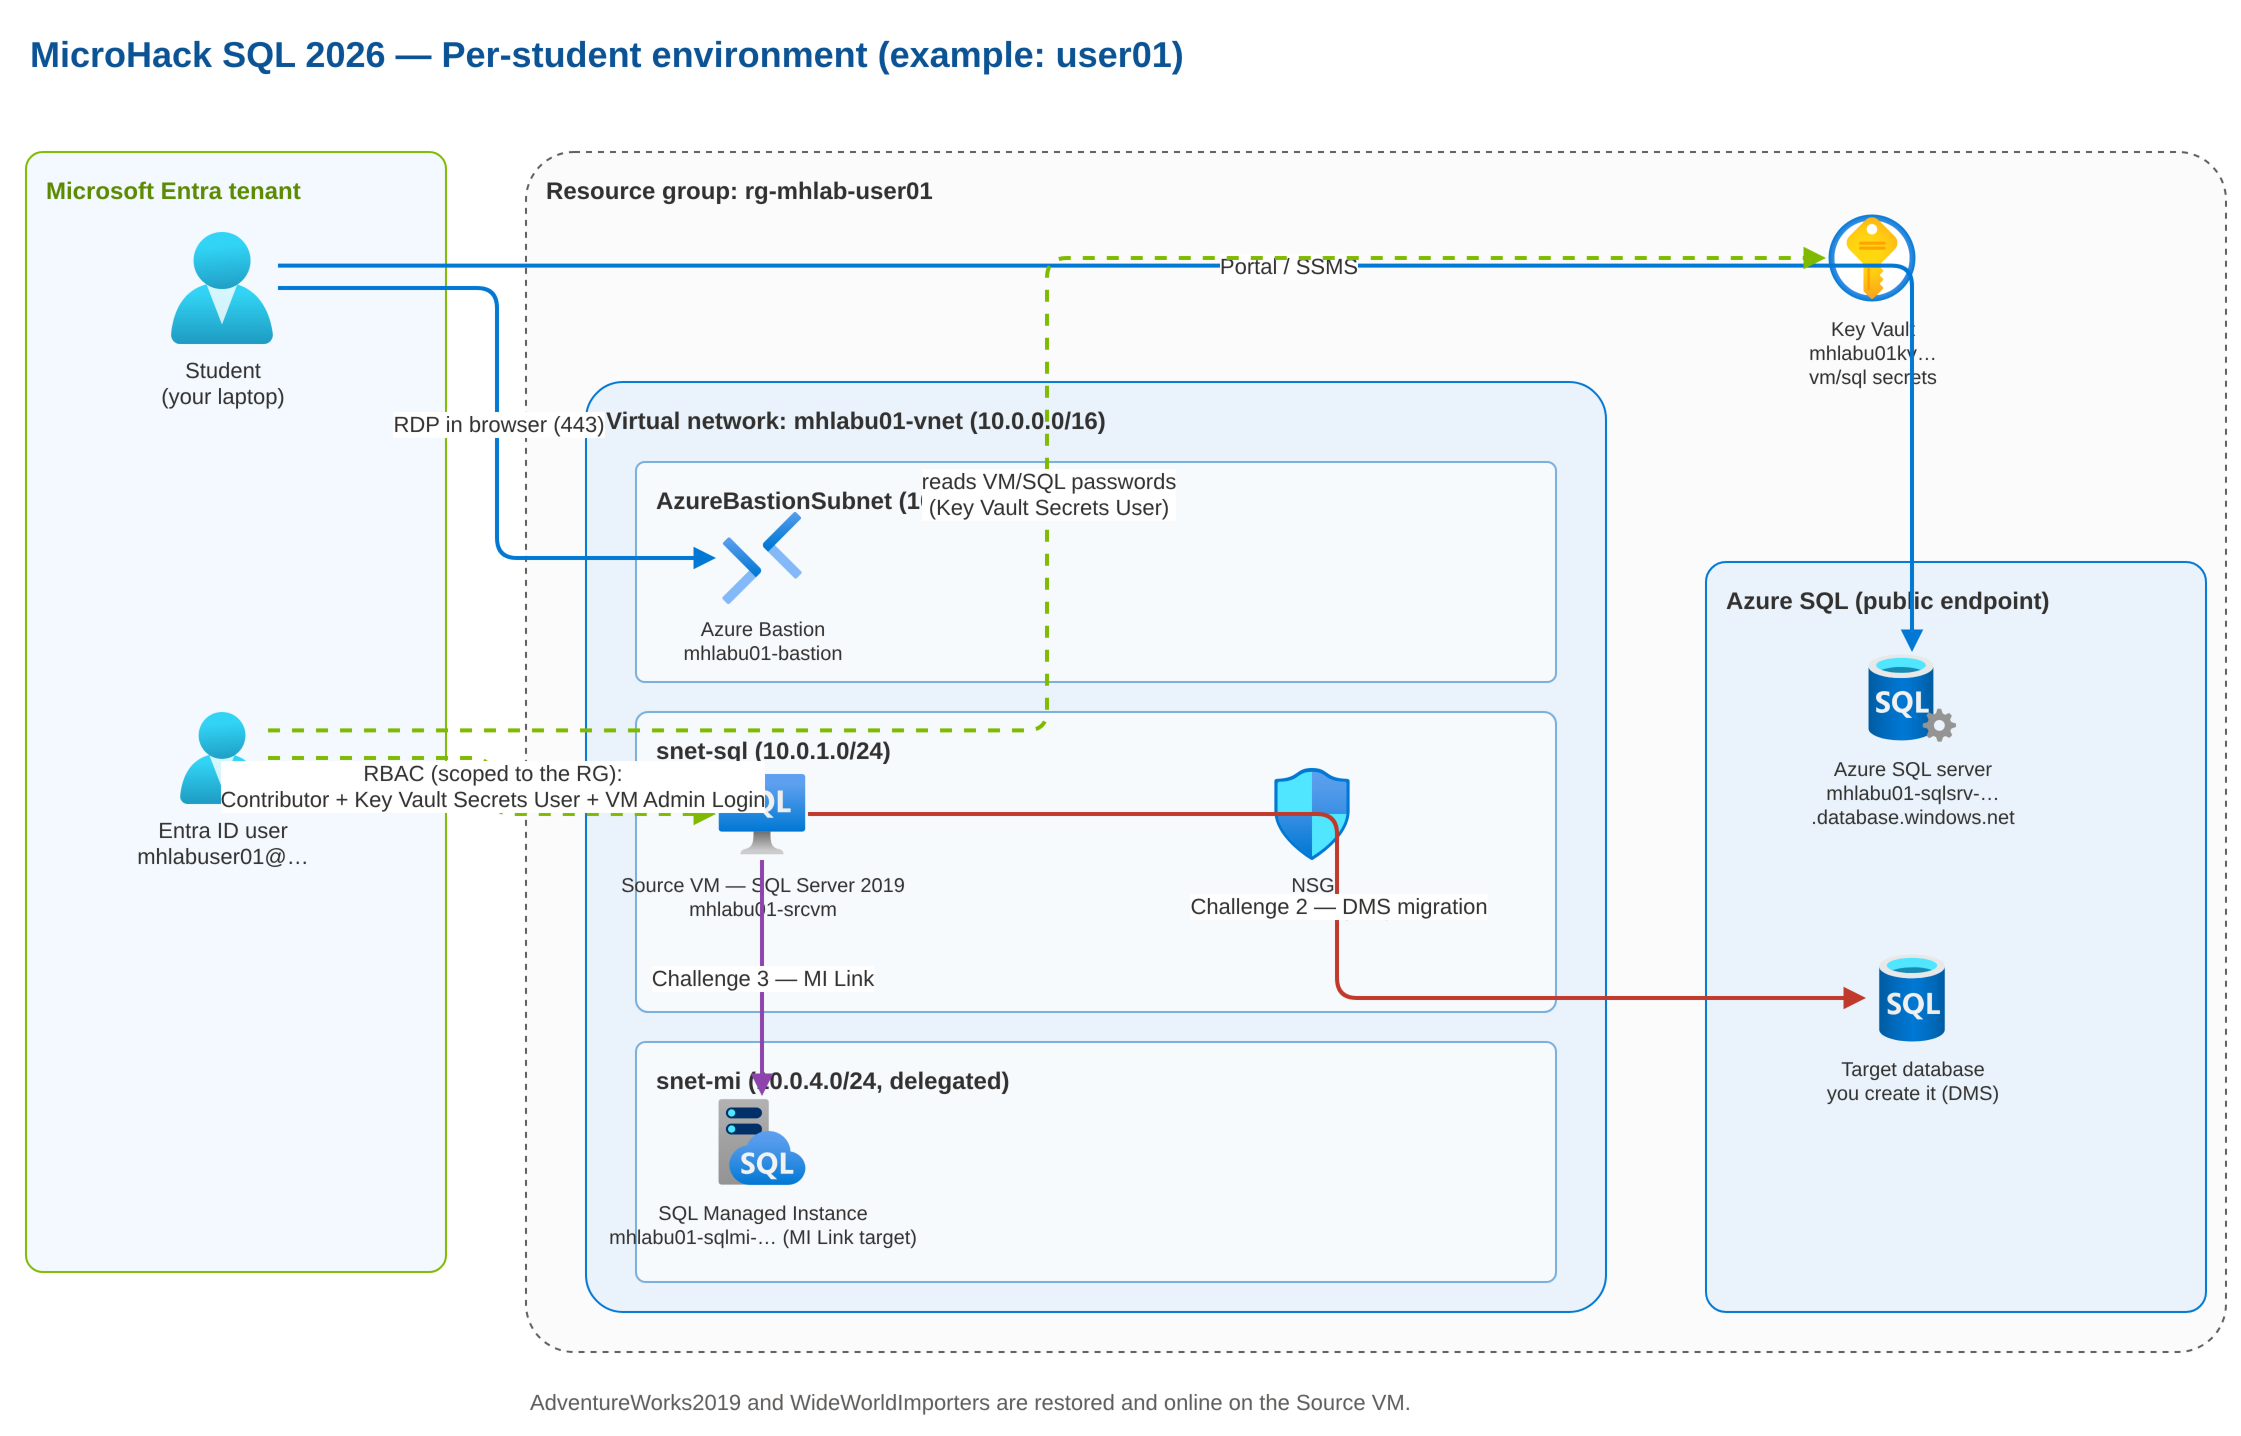
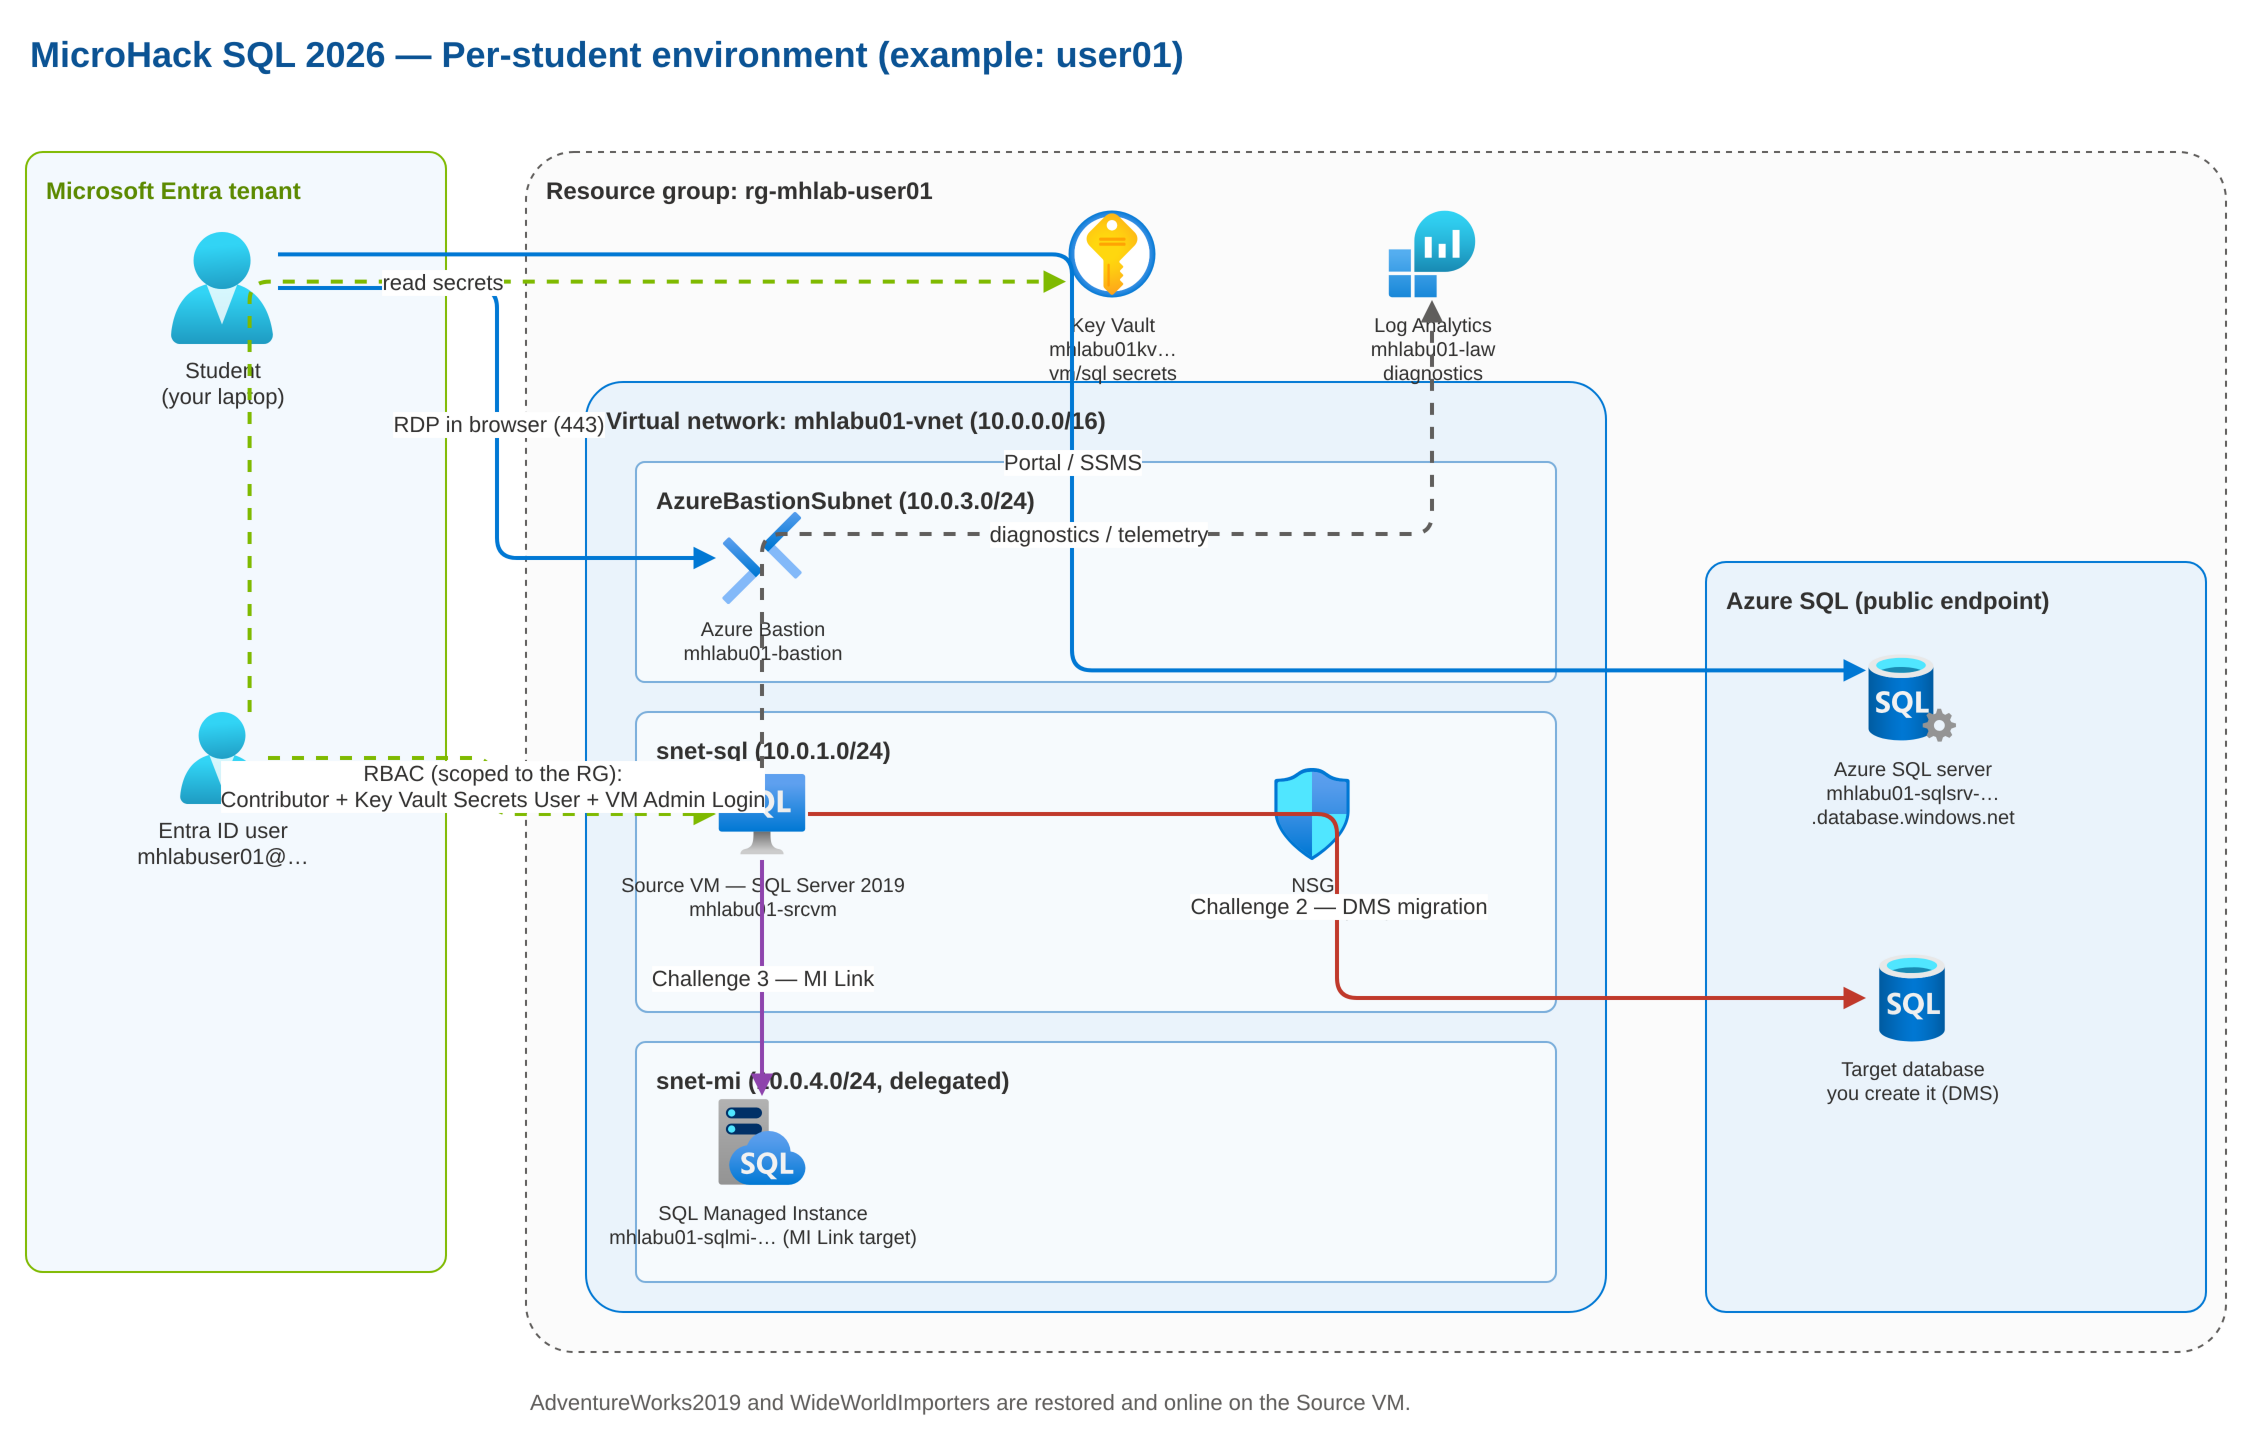
docs(challenge-00): worked solution, remove placeholder screenshots, add LAW to diagram
1) Rewrite walkthrough/challenge-00/solution-00.md into a full worked solution with the expected result of each Challenge 0 step (plus facilitator context). 2) Remove the synthetic placeholder step screenshots from challenge-00.md and infra/docs/access-guide.md (and delete the placeholder PNGs); steps are now described in text only, keeping the real generated architecture/access-flow diagrams. 3) Add the per-user Log Analytics workspace to the architecture diagram (new official log-analytics icon + build-diagrams.py + re-rendered architecture.png).

diff --git a/infra/docs/diagrams/build-diagrams.py b/infra/docs/diagrams/build-diagrams.py
@@ -139,6 +139,9 @@ def build_architecture() -> str:
     # Per-student Key Vault holding all lab credentials (top strip of the resource group).
     kv = d.icon("Key Vault\nmhlabu01kv…\nvm/sql secrets", "key-vault", 560, 108, 46, 46, fontsize=10)
 
+    # Per-student Log Analytics workspace collecting diagnostics/telemetry.
+    law = d.icon("Log Analytics\nmhlabu01-law\ndiagnostics", "log-analytics", 720, 108, 46, 46, fontsize=10)
+
     d.edge(student, bastion, "RDP in browser (443)", color="#0078D4",
            exit_=(1, 0.5), entry=(0, 0.5))
     d.edge(student, srv, "Portal / SSMS", color="#0078D4",
@@ -151,6 +154,8 @@ def build_architecture() -> str:
            exit_=(1, 0.5), entry=(0, 0.5))
     d.edge(srcvm, mi, "Challenge 3 — MI Link", color="#8E44AD",
            exit_=(0.5, 1), entry=(0.5, 0))
+    d.edge(srcvm, law, "diagnostics / telemetry", color="#605E5C", dashed=True,
+           exit_=(0.5, 0), entry=(0.5, 1))
 
     d.label("AdventureWorks2019 and WideWorldImporters are restored and online on the Source VM.",
             290, 695, 850, 20, fontsize=11, bold=False, color="#605E5C")

diff --git a/walkthrough/challenge-00/solution-00.md b/walkthrough/challenge-00/solution-00.md
@@ -1,11 +1,11 @@
-# Solution 0 — Environment access (facilitator)
+# Solution 0 — Introduction & environment access
 
 **[Home](../../Readme.md)** - [Next Solution](../challenge-01/solution-01.md)
 
-This walkthrough is for **facilitators**. It complements
-[Challenge 0](../../challenges/challenge-00.md) with the provisioning context and the exact
-checks to run if an attendee is blocked. Attendees follow the challenge; facilitators own the
-deployment.
+This is the worked solution for [Challenge 0](../../challenges/challenge-00.md). It walks through
+every step an attendee performs, states the **expected result** of each one, and adds the
+**facilitator** context (how the environment is provisioned and the exact checks to run when an
+attendee is blocked). Attendees follow the challenge; facilitators own the deployment.
 
 ## Environment model
 
@@ -32,8 +32,71 @@ by the number of attendees and supports adding a single extra environment on dem
 
 > ℹ️ **Deployment model:** each attendee gets a fully isolated environment — one resource group
 > with its own Bastion, Key Vault, source VM, Azure SQL server, SQL Managed Instance and Log
-> Analytics workspace, plus a dedicated Entra ID user. See [`infra/README.md`](../../infra/README.md) for the two deployment
-> paths (CLI and web app) and the full parameter reference.
+> Analytics workspace, plus a dedicated Entra ID user. See
+> [`infra/README.md`](../../infra/README.md) for the two deployment paths (CLI and web app) and
+> the full parameter reference.
+
+## Worked solution — step by step
+
+Each step below maps 1:1 to the [challenge](../../challenges/challenge-00.md). The **Expected
+result** is what the attendee should see when the step succeeds.
+
+### Step 1 — Sign in to the Azure portal
+
+The attendee opens <https://portal.azure.com> with `<prefix>user<NN>@<tenant>` and the temporary
+password (`Temporal01!`), changes the password at first sign-in, and registers MFA.
+
+**Expected result:** the Azure portal home page loads. The new password is set and MFA is
+registered; the temporary password no longer works.
+
+### Step 2 — Locate the resource group
+
+The attendee searches **Resource groups** and opens `rg-mhlab-user<NN>`.
+
+**Expected result:** exactly **one** resource group is visible and it contains the source VM,
+Azure Bastion, the Azure SQL logical server, the SQL Managed Instance, the Key Vault and the Log
+Analytics workspace. If more than one group is visible, the RBAC scope is wrong — see
+[Troubleshooting](#troubleshooting).
+
+### Step 2a — Read credentials from Key Vault
+
+The attendee opens the Key Vault `mhlabu01kv…` → **Objects → Secrets** and reads the values (or
+uses `az keyvault secret show`).
+
+**Expected result:** six secrets are present (`student-username/password`,
+`vm-admin-username/password`, `sql-admin-login/password`) and the attendee can read them with
+their **Key Vault Secrets User** role. The password actually used to connect to the VM and to
+the source SQL Server is `vm-admin-password`.
+
+### Step 3 — Connect to the source VM with Bastion
+
+The attendee opens `mhlabu01-srcvm` → **Connect → Bastion** and signs in with `mhadmin` and the
+`vm-admin-password`.
+
+**Expected result:** the Windows Server 2022 desktop of the source VM opens in a new browser tab.
+
+### Step 4 — Connect to the source SQL Server with SSMS
+
+Inside the VM the attendee opens SSMS, connects to `localhost` (Windows Authentication, or SQL
+auth with `sa` / `sqladmin` and `vm-admin-password`), and expands **Databases**.
+
+**Expected result:** SSMS connects and both **AdventureWorks2019** and **WideWorldImporters** are
+present and **online**. If they are missing, the Custom Script Extension restore is still running
+or failed — check `C:\Lab\setup-source-vm.log` on the VM.
+
+### Step 5 — Identify the Azure SQL server (DMS target)
+
+The attendee opens the Azure SQL logical server `mhlabu01-sqlsrv-…` and copies its FQDN.
+
+**Expected result:** the server FQDN (`mhlabu01-sqlsrv-….database.windows.net`) is captured for
+Challenge 2. No target database exists yet — the attendee creates it during the DMS migration.
+
+### Step 6 — Identify the Azure SQL Managed Instance (MI Link target)
+
+The attendee opens the SQL Managed Instance `mhlabu01-sqlmi-…` and checks its status.
+
+**Expected result:** the Managed Instance is **Ready**. **MI provisioning can take 3–6 hours**, so
+a *Creating* state early in the lab is normal — it is the destination for Challenge 3.
 
 ## Verification checklist (per attendee)
 
@@ -43,6 +106,7 @@ by the number of attendees and supports adding a single extra environment on dem
 4. **Source SQL** — SSMS at `localhost`; both sample databases online.
 5. **Azure SQL** — logical server reachable; FQDN captured for Challenge 2.
 6. **Managed Instance** — `Ready` (or note that it is still provisioning, up to 3–6 h).
+7. **Log Analytics** — workspace `mhlabu01-law` present in the resource group.
 
 ## Useful CLI checks
 
@@ -56,3 +120,13 @@ az keyvault secret show --vault-name <kv-name> --name vm-admin-password --query 
 # Confirm the Entra user must change password at first sign-in
 az ad user show --id mhlabuser01@<tenant> --query userPrincipalName -o tsv
 ```
+
+## Troubleshooting
+
+| Symptom | Likely cause | What to do |
+| --- | --- | --- |
+| More than one RG visible | RBAC assigned at the wrong scope | Re-run the role assignment scoped to the attendee RG only. |
+| Cannot read Key Vault secrets | Role still propagating | Wait a few minutes; the user needs **Key Vault Secrets User** on the RG. |
+| Bastion will not connect | Wrong VM credentials | Use `mhadmin` + `vm-admin-password` from Key Vault. |
+| SSMS does not see the databases | Restore still running / failed | Check `C:\Lab\setup-source-vm.log` on the VM. |
+| Managed Instance not visible | Slow provisioning | MI can take 3–6 hours; confirm the deployment finished. |

diff --git a/infra/docs/access-guide.md b/infra/docs/access-guide.md
@@ -3,13 +3,8 @@
 **[Home](../README.md)** - [Architecture](architecture.md) - [Introduction](introduction.md)
 
 Before you start the SQL modernization challenges, confirm that you can reach **every**
-component of your personal lab environment. Work through the steps in order. Each step has a
-matching screenshot under [`images/`](images/) and a success check.
-
-> **Facilitators:** the numbered Portal / Bastion / SSMS screenshots (`images/01-…` … `07-…`)
-> currently ship as **labeled placeholders**. Regenerate the real ones against your own tenant
-> with the Playwright helper in [`screenshots/`](screenshots/README.md) — it writes to the same
-> file names, so they will replace the placeholders automatically. The guide is fully usable as-is.
+component of your personal lab environment. Work through the steps in order. Each step ends with
+a success check.
 
 ## Access flow
 
@@ -42,8 +37,6 @@ SQL Managed Instance). When all the checks below pass, you are ready for Challen
 3. On this **first sign-in you must change your password** — set a new one and keep it safe.
 4. Complete the **multi-factor authentication (MFA)** registration when prompted.
 
-![Azure portal sign-in](images/01-portal-login.png)
-
 ✅ **Success:** you reach the Azure portal home page.
 
 ### Step 2 — Locate your resource group
@@ -54,8 +47,6 @@ SQL Managed Instance). When all the checks below pass, you are ready for Challen
    (`mhlabu01-bastion`), an **Azure SQL server** (`mhlabu01-sqlsrv-…`), a
    **SQL managed instance** (`mhlabu01-sqlmi-…`), a **Key Vault** (`mhlabu01kv…`), and a
    **Log Analytics workspace** (`mhlabu01-law`).
-
-![Resource group contents](images/02-resource-group.png)
 
 ✅ **Success:** you can see your resource group and its resources.
 
@@ -75,8 +66,6 @@ them now — you will need the VM password in the next step.
    - `sql-admin-login` / `sql-admin-password` — the Azure SQL / Managed Instance admin login.
 3. Open a secret and select **Show Secret Value** to copy it.
 
-![Reading a secret from your Key Vault](images/07-key-vault.png)
-
 Or use the Azure CLI (Cloud Shell or the source VM):
 
 ```powershell
@@ -94,8 +83,6 @@ az keyvault secret show --vault-name mhlabu01kv<hash> --name vm-admin-password -
    - **Password:** the `vm-admin-password` you read from Key Vault in Step 2a.
 4. Select **Connect**. A Windows desktop opens in a new browser tab.
 
-![Connecting through Bastion](images/03-bastion-connect.png)
-
 > Allow pop-ups for this site if your browser blocks the Bastion window.
 
 ✅ **Success:** you see the Windows Server 2022 desktop of your source VM.
@@ -112,8 +99,6 @@ az keyvault secret show --vault-name mhlabu01kv<hash> --name vm-admin-password -
 4. Expand **Databases** and confirm that **AdventureWorks2019** and **WideWorldImporters**
    are present and online.
 
-![SSMS connected to the source SQL Server](images/04-ssms-localhost.png)
-
 > Need to reach the source SQL Server **from outside** the VM (your laptop)? It is possible by
 > pointing SSMS at the **VM public IP**, port 1433, using SQL authentication. Ask the
 > facilitator — it is not required for Challenge 0.
@@ -128,8 +113,6 @@ az keyvault secret show --vault-name mhlabu01kv<hash> --name vm-admin-password -
    `mhlabu01-sqlsrv-yzrgvstb4csl2.database.windows.net`). You will need it in **Challenge 2**
    for the DMS migration. No target database exists yet — you create it during Challenge 2.
 
-![Azure SQL server in the portal](images/05-azure-sql.png)
-
 ✅ **Success:** you locate your Azure SQL server and note its FQDN.
 
 ### Step 6 — Identify your Azure SQL Managed Instance (MI Link target)
@@ -137,8 +120,6 @@ az keyvault secret show --vault-name mhlabu01kv<hash> --name vm-admin-password -
 1. In your resource group, open the **SQL managed instance** resource `mhlabu01-sqlmi-…`.
 2. Check its status. **MI provisioning can take several hours**: if it does not appear yet or
    is in a *Creating* state, let the facilitator know. You will use it in **Challenge 3**.
-
-![Azure SQL Managed Instance in the portal](images/06-sql-mi.png)
 
 ✅ **Success:** you locate your Managed Instance (or confirm with the facilitator that it is
 still provisioning).

diff --git a/challenges/challenge-00.md b/challenges/challenge-00.md
@@ -64,8 +64,6 @@ resource group.
 3. On this **first sign-in you must change your password** — set a new one and keep it safe.
 4. Complete the **multi-factor authentication (MFA)** registration when prompted.
 
-![Azure portal sign-in](../Images/c0-step-01-portal-login.png)
-
 ✅ **Success:** you reach the Azure portal home page.
 
 ### Step 2 — Locate your resource group
@@ -75,8 +73,6 @@ resource group.
 3. Confirm it contains at least: a **VM** (`mhlabu01-srcvm`), an **Azure Bastion**
    (`mhlabu01-bastion`), an **Azure SQL server** (`mhlabu01-sqlsrv-…`), a **SQL managed
    instance** (`mhlabu01-sqlmi-…`), and a **Key Vault** (`mhlabu01kv…`).
-
-![Resource group contents](../Images/c0-step-02-resource-group.png)
 
 ✅ **Success:** you can see your resource group and its resources.
 
@@ -99,8 +95,6 @@ them. Get them now — you need the VM password in the next step.
 az keyvault secret show --vault-name mhlabu01kv<hash> --name vm-admin-password --query value -o tsv
 ```
 
-![Reading a secret from Key Vault](../Images/c0-step-02a-key-vault.png)
-
 ✅ **Success:** you can read your VM and SQL passwords from your Key Vault.
 
 ### Step 3 — Connect to the source VM with Bastion
@@ -111,8 +105,6 @@ az keyvault secret show --vault-name mhlabu01kv<hash> --name vm-admin-password -
    - **Username:** `mhadmin` (the VM local administrator)
    - **Password:** the `vm-admin-password` you read from Key Vault in Step 2a.
 4. Select **Connect**. A Windows desktop opens in a new browser tab (allow pop-ups).
-
-![Connecting through Bastion](../Images/c0-step-03-bastion-connect.png)
 
 ✅ **Success:** you see the Windows Server 2022 desktop of your source VM.
 
@@ -127,8 +119,6 @@ az keyvault secret show --vault-name mhlabu01kv<hash> --name vm-admin-password -
 3. Select **Connect** and expand **Databases**.
 4. Confirm **AdventureWorks2019** and **WideWorldImporters** are present and online.
 
-![SSMS connected to the source SQL Server](../Images/c0-step-04-ssms-localhost.png)
-
 > Need to reach the source SQL Server **from your laptop** instead? Point SSMS at the
 > **VM public IP, port 1433** with SQL authentication (`sqladmin` / `vm-admin-password`). The
 > NSG allows 1433 inbound (public lab). Not required for Challenge 0.
@@ -141,8 +131,6 @@ az keyvault secret show --vault-name mhlabu01kv<hash> --name vm-admin-password -
 2. Copy its **FQDN** (for example `mhlabu01-sqlsrv-….database.windows.net`). You need it in
    **Challenge 2** for the DMS migration. No target database exists yet — you create it there.
 
-![Azure SQL server in the portal](../Images/c0-step-05-azure-sql.png)
-
 ✅ **Success:** you locate your Azure SQL server and note its FQDN.
 
 ### Step 6 — Identify your Azure SQL Managed Instance (MI Link target)
@@ -150,8 +138,6 @@ az keyvault secret show --vault-name mhlabu01kv<hash> --name vm-admin-password -
 1. In your resource group, open the **SQL managed instance** `mhlabu01-sqlmi-…`.
 2. Check its status. **MI provisioning can take several hours**: if it is still in a *Creating*
    state, tell the facilitator. You use it in **Challenge 3**.
-
-![Azure SQL Managed Instance in the portal](../Images/c0-step-06-sql-mi.png)
 
 ✅ **Success:** you locate your Managed Instance (or confirm it is still provisioning).
 

diff --git a/infra/docs/images/README.md b/infra/docs/images/README.md
@@ -8,9 +8,11 @@ icons — safe to commit):
 - `architecture.png` — per-student architecture (example: user01).
 - `access-flow.png` — Challenge 0 access flow (example: user01).
 
-Deployer / portal screenshots (generated with the helpers in
-[`../screenshots/`](../screenshots/README.md)):
+Deployer screenshot:
 
 - `web-deployer.png` — the deployer web UI (automatic capture, safe to commit).
-- `01-portal-login.png` … `06-sql-mi.png` — Azure portal flow (semi-automatic; capture with a
-  demo account and redact sensitive data before publishing).
+
+> The student access guide ([`../access-guide.md`](../access-guide.md)) and Challenge 0 describe
+> the Portal / Bastion / SSMS steps in text. Portal step screenshots are intentionally omitted —
+> they depend on a live tenant and would expose tenant-specific data, so the steps are written to
+> be followed without them.